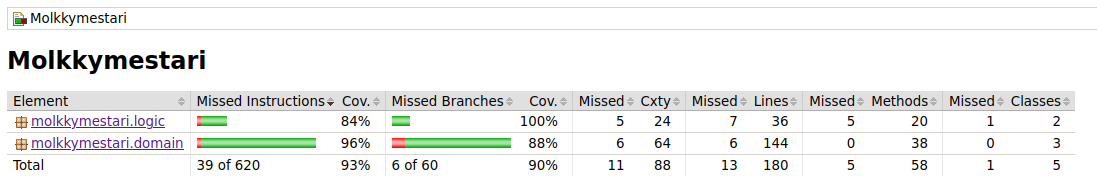
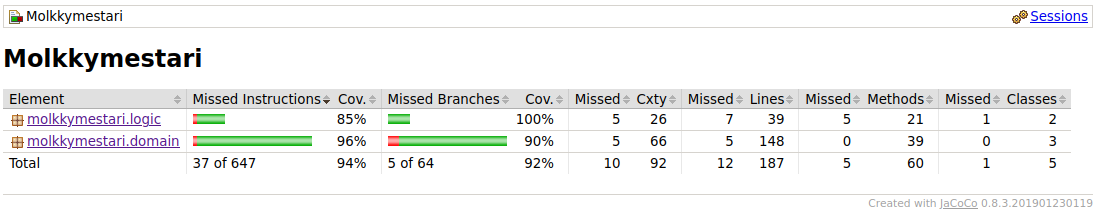
parannettu toimintavarmuutta

diff --git a/Molkkymestari/src/main/java/molkkymestari/ui/MolkkyApplication.java b/Molkkymestari/src/main/java/molkkymestari/ui/MolkkyApplication.java
@@ -104,17 +104,25 @@ public class MolkkyApplication extends Application{
         });       
         
         savePlayer.setOnAction((event) -> {
-            String name = addPlayersField.getText();
-           
-            if(name.matches("[a-zA-Z0-9]{3,20}")) {
-                service.addNewPlayer(name);
-                addPlayersField.clear();
-                addedPlayers.setText(service.getPlayersToPrint());
-            } else {
-                addPlayersField.setText("Anna kunnollinen nimi!");
+            if (service.getHowManyPlayers() >= 10 ) {
+                addPlayersField.setText("Pelissä on jo 10 pelaajaa.");
+                return;
             }
-            
-            
+              
+            String name = addPlayersField.getText();
+            if(!(name.matches("[a-zA-Z0-9]{3,20}"))) {
+                addPlayersField.setText("Anna kunnollinen nimi!");
+                return;
+            }
+                  
+            if (service.checkIfNameIsAlreadyAdded(name).equals(true)) {
+                addPlayersField.setText("Nimimerkki on jo käytetty");
+                return;
+            } 
+                
+            service.addNewPlayer(name);
+            addPlayersField.clear();
+            addedPlayers.setText(service.getPlayersToPrint());                    
         });
         
         //2: GameSettings-näkymän painikkeiden toiminnot        
@@ -177,7 +185,13 @@ public class MolkkyApplication extends Application{
                   window.setScene(winnerScene);              
                 }                
                 
-                pointsToDocument.clear();                
+                pointsToDocument.clear();
+                if(service.getHowManyPlayers()== 0) {
+                    whosTurn.setText("Ei pelaajia");
+                    whosTurnPoints.setText("0");
+                    whosTurnNext.setText("Ei pelaajia"); 
+                   return;
+                }
                 whosTurnPoints.setText
         (service.getPlayersPointsWithIndex(service.getWhosTurnIndex()));
                 whosTurn.setText(service.getWhosTurnName());
@@ -431,7 +445,7 @@ public class MolkkyApplication extends Application{
      * @param VBox 
      */
     public void vBoxLayoutSettings(VBox VBox){
-        VBox.setPrefSize(800, 500);
+        VBox.setPrefSize(800, 600);
         VBox.setAlignment(Pos.TOP_CENTER);
         VBox.setSpacing(30);
     }

diff --git a/Molkkymestari/src/test/java/domain/GameTest.java b/Molkkymestari/src/test/java/domain/GameTest.java
@@ -202,4 +202,14 @@ public class GameTest {
     public void getWhosNextNameReturnsCorrectInfoIfNoPlayersAreAdded() {
         assertEquals(noPlayersGame.getWhosNextName(), "Ei pelaajia");
     }
+    
+    @Test
+    public void checkIfPlayerIsInTheGameReturnsTrueIfThereIsAlreadyPlayerWithThatName() {
+        assertEquals(onePlayerGame.checkIfPlayerIsInTheGame("Testi-Tylsimys"), true);
+    }
+    
+    @Test
+    public void checkIfPlayerIsInTheGameReturnsFalseForoPlayers() {
+        assertEquals(noPlayersGame.checkIfPlayerIsInTheGame("Testi-Tylsimys"), false);
+    }
 }

diff --git a/Molkkymestari/src/test/java/logic/MolkkyServiceTest.java b/Molkkymestari/src/test/java/logic/MolkkyServiceTest.java
@@ -99,4 +99,14 @@ public class MolkkyServiceTest {
     public void getPlayersToPrintReturnsPlayersSeparatedOnOwnRows() {
         assertEquals(service.getPlayersToPrint(), "Testi-Timjami\nTesti-Tatiana\n");
     }
+    
+    @Test
+    public void checkIfNameIsAlreadyAddedReturnsTrueIfPlayerIsFound() {
+        assertEquals(service.checkIfNameIsAlreadyAdded("Testi-Timjami"), true);
+    }
+    
+    @Test
+    public void checkIfNameIsAlreadyAddedReturnsFalseIfPlayerIsNotFound() {
+        assertEquals(service.checkIfNameIsAlreadyAdded("Testi-Tauno"), false);
+    }
 }

diff --git a/Molkkymestari/src/main/java/molkkymestari/logic/MolkkyService.java b/Molkkymestari/src/main/java/molkkymestari/logic/MolkkyService.java
@@ -180,4 +180,11 @@ public class MolkkyService {
     public String getWinnerName() {
         return game.getWinner().toString();
     } 
+    
+    public Boolean checkIfNameIsAlreadyAdded(String name) {
+        if (game.checkIfPlayerIsInTheGame(name).equals(true)) {
+            return true;
+        }        
+        return false;
+    }
 }

diff --git a/Molkkymestari/src/main/java/molkkymestari/domain/Game.java b/Molkkymestari/src/main/java/molkkymestari/domain/Game.java
@@ -259,4 +259,13 @@ public class Game {
     public Player getWinner() {
         return winner;
     }
+    
+    public Boolean checkIfPlayerIsInTheGame(String name) {
+        Player player = playerList.getPlayerWithName(name);
+        if (player == null) {
+            return false;
+        }
+        
+        return true;
+    }
 }
